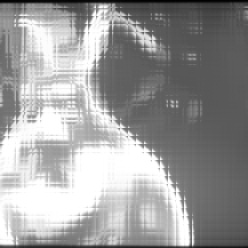
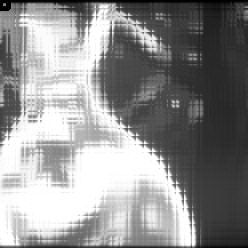
Rotations are added

diff --git a/extraction.py b/extraction.py
@@ -1,5 +1,5 @@
 from numpy import uintp, array, zeros, sum, linalg
-from cv2 import getRotationMatrix2D, warpAffine, flip, setUseOptimized, imwrite
+from cv2 import getRotationMatrix2D, warpAffine, flip, setUseOptimized, imwrite, rectangle
 from bitarray import bitarray
 import gc
 from ctypes import *
@@ -89,13 +89,19 @@ def basic_rotations(rot0):
     rot270 = warpAffine(rot180, rot_matrix, (center * 2, center * 2))
     vertical = flip(rot0, 0)
     horizontal = flip(rot0, 1)
+    rectangle(rot0, (0,0), (8,8), (0,255,0), 3)
+    rectangle(rot90, (0,0), (8,8), (0,255,0), 3)
+    rectangle(rot180, (0,0), (8,8), (0,255,0), 3)
+    rectangle(rot270, (0,0), (8,8), (0,255,0), 3)
+    rectangle(vertical, (0,0), (8,8), (0,255,0), 3)
+    rectangle(horizontal, (0,0), (8,8), (0,255,0), 3)
     imwrite("rot90.jpg",rot90)
     imwrite("rot180.jpg",rot180)
     imwrite("rot270.jpg", rot270)
     imwrite("rot0.jpg", rot0)
     imwrite("horizontal.jpg", horizontal)
     imwrite("vertical.jpg", vertical)
-
+    
     rot90 = rot90[0:120, 0:120]
     rot180 = rot180[0:120, 0:120]
     rot270 = rot270[0:120, 0:120]
